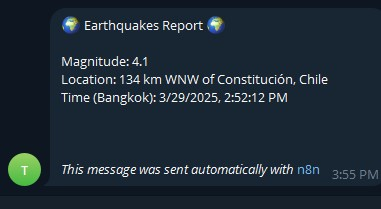
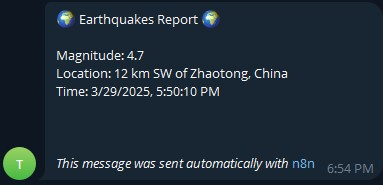
all ok

diff --git a/codeForN8nCodeNode.js b/codeForN8nCodeNode.js
@@ -1,0 +1,25 @@
+const inputData = $input.first().json;
+// Directly access the earthquake data in the "body" property.
+const webhookData = inputData.body;
+
+// Transform the earthquake data
+const earthquakeData = webhookData.map(quake => ({
+    magnitude: quake.magnitude,
+    location: quake.location,
+    timestamp: quake.time
+}));
+
+// Compose the message
+let formattedMessage = `🌍 **Earthquakes Report** 🌍\n\n`;
+earthquakeData.forEach((quake) => {
+    formattedMessage += `**Magnitude:** ${quake.magnitude}\n`;
+    formattedMessage += `**Location:** ${quake.location}\n`;
+    formattedMessage += `**Time:** ${quake.timestamp}\n\n`;
+});
+
+// Return the formatted message as output
+return {
+    json: {
+        formattedMessage: formattedMessage
+    }
+};

diff --git a/server.js b/server.js
@@ -5,7 +5,7 @@ const fs = require('fs');
 // Function to send data to webhook
 async function sendToWebhook(data) {
   try {
-    const response = await fetch('http://localhost:5678/webhook-test/9265066c-5049-4206-880c-4db31939735f', {
+    const response = await fetch('http://localhost:5678/webhook/9265066c-5049-4206-880c-4db31939735f', {
       method: 'POST',
       headers: {
         'Content-Type': 'application/json',
@@ -86,5 +86,8 @@ async function fetchEarthquakeData() {
   }
 }
 
-// Call the function to fetch and display data
+// Initial fetch
 fetchEarthquakeData();
+
+// Fetch data every 5 seconds
+setInterval(fetchEarthquakeData, 300000);

diff --git a/README.md b/README.md
@@ -4,12 +4,16 @@ A Node.js application that monitors and reports earthquake data from USGS (Unite
 
 ## Features
 
-- Fetches earthquake data from USGS GeoJSON feed
-- Filters earthquakes based on magnitude
-- Stores earthquake data locally to track new events
-- Sends notifications via webhook
+- Fetches earthquake data from USGS GeoJSON feed (2.5+ magnitude earthquakes)
+- Filters and tracks new earthquake events
+- Stores earthquake data locally in JSON format
+- Sends notifications via webhook for new events only
 - Converts UTC timestamps to local time
 - Formats data into readable messages
+- Auto-updates every 25 seconds (can be changed in server.js)
+- Prevents duplicate entries through intelligent comparison
+- Integration with n8n for data processing
+- Automated Telegram notifications through n8n workflow
 
 ## Setup
 
@@ -27,7 +31,7 @@ npm install
 Start the main server that continuously monitors earthquakes:
 
 ```bash
-node server.js
+npm start
 ```
 
 ### Running Tests
@@ -42,8 +46,8 @@ node test.js
 
 The application monitors:
 
-- Earthquakes with magnitude 2.5+ in the past day (`server.js`)
-- Earthquakes with magnitude 4.5+ in the past day (`test.js`)
+- Main server (`server.js`): Earthquakes with magnitude 2.5+ in the past day
+- Test server (`test.js`): Earthquakes with magnitude 4.5+ in the past day
 
 ## Data Storage
 
@@ -51,25 +55,40 @@ Earthquake data is stored in `data.json` to track new events and prevent duplica
 
 - Location
 - Magnitude
-- Timestamp
+- Timestamp (in local time)
 - Coordinates (latitude, longitude, depth)
 
 ## Webhook Integration
 
-The application sends formatted earthquake data to a webhook endpoint. The webhook message includes:
+The application sends formatted earthquake data to an n8n webhook endpoint for new events only. The data flow is:
+
+1. Server detects new earthquake events
+2. Data is sent to n8n webhook
+3. n8n processes and formats the data
+4. Formatted messages are sent to Telegram
+
+Each webhook message includes:
 
 - Magnitude
 - Location
 - Timestamp
 - Coordinates
 
+## Real-time Updates
+
+- Automatic polling every 25 seconds (can be changed in server.js)
+- Intelligent filtering to report only new earthquakes
+- Console logging of new earthquake details
+- Webhook notifications for new events only
+- Instant Telegram notifications via n8n
+
 ## Project Structure
 
-- `server.js` - Main application server
+- `server.js` - Main application server with continuous monitoring
 - `test.js` - Webhook testing script
 - `data.json` - Local storage for earthquake data
 - `package.json` - Project dependencies and metadata
 
 ## License
 
-ISC
+MIT
